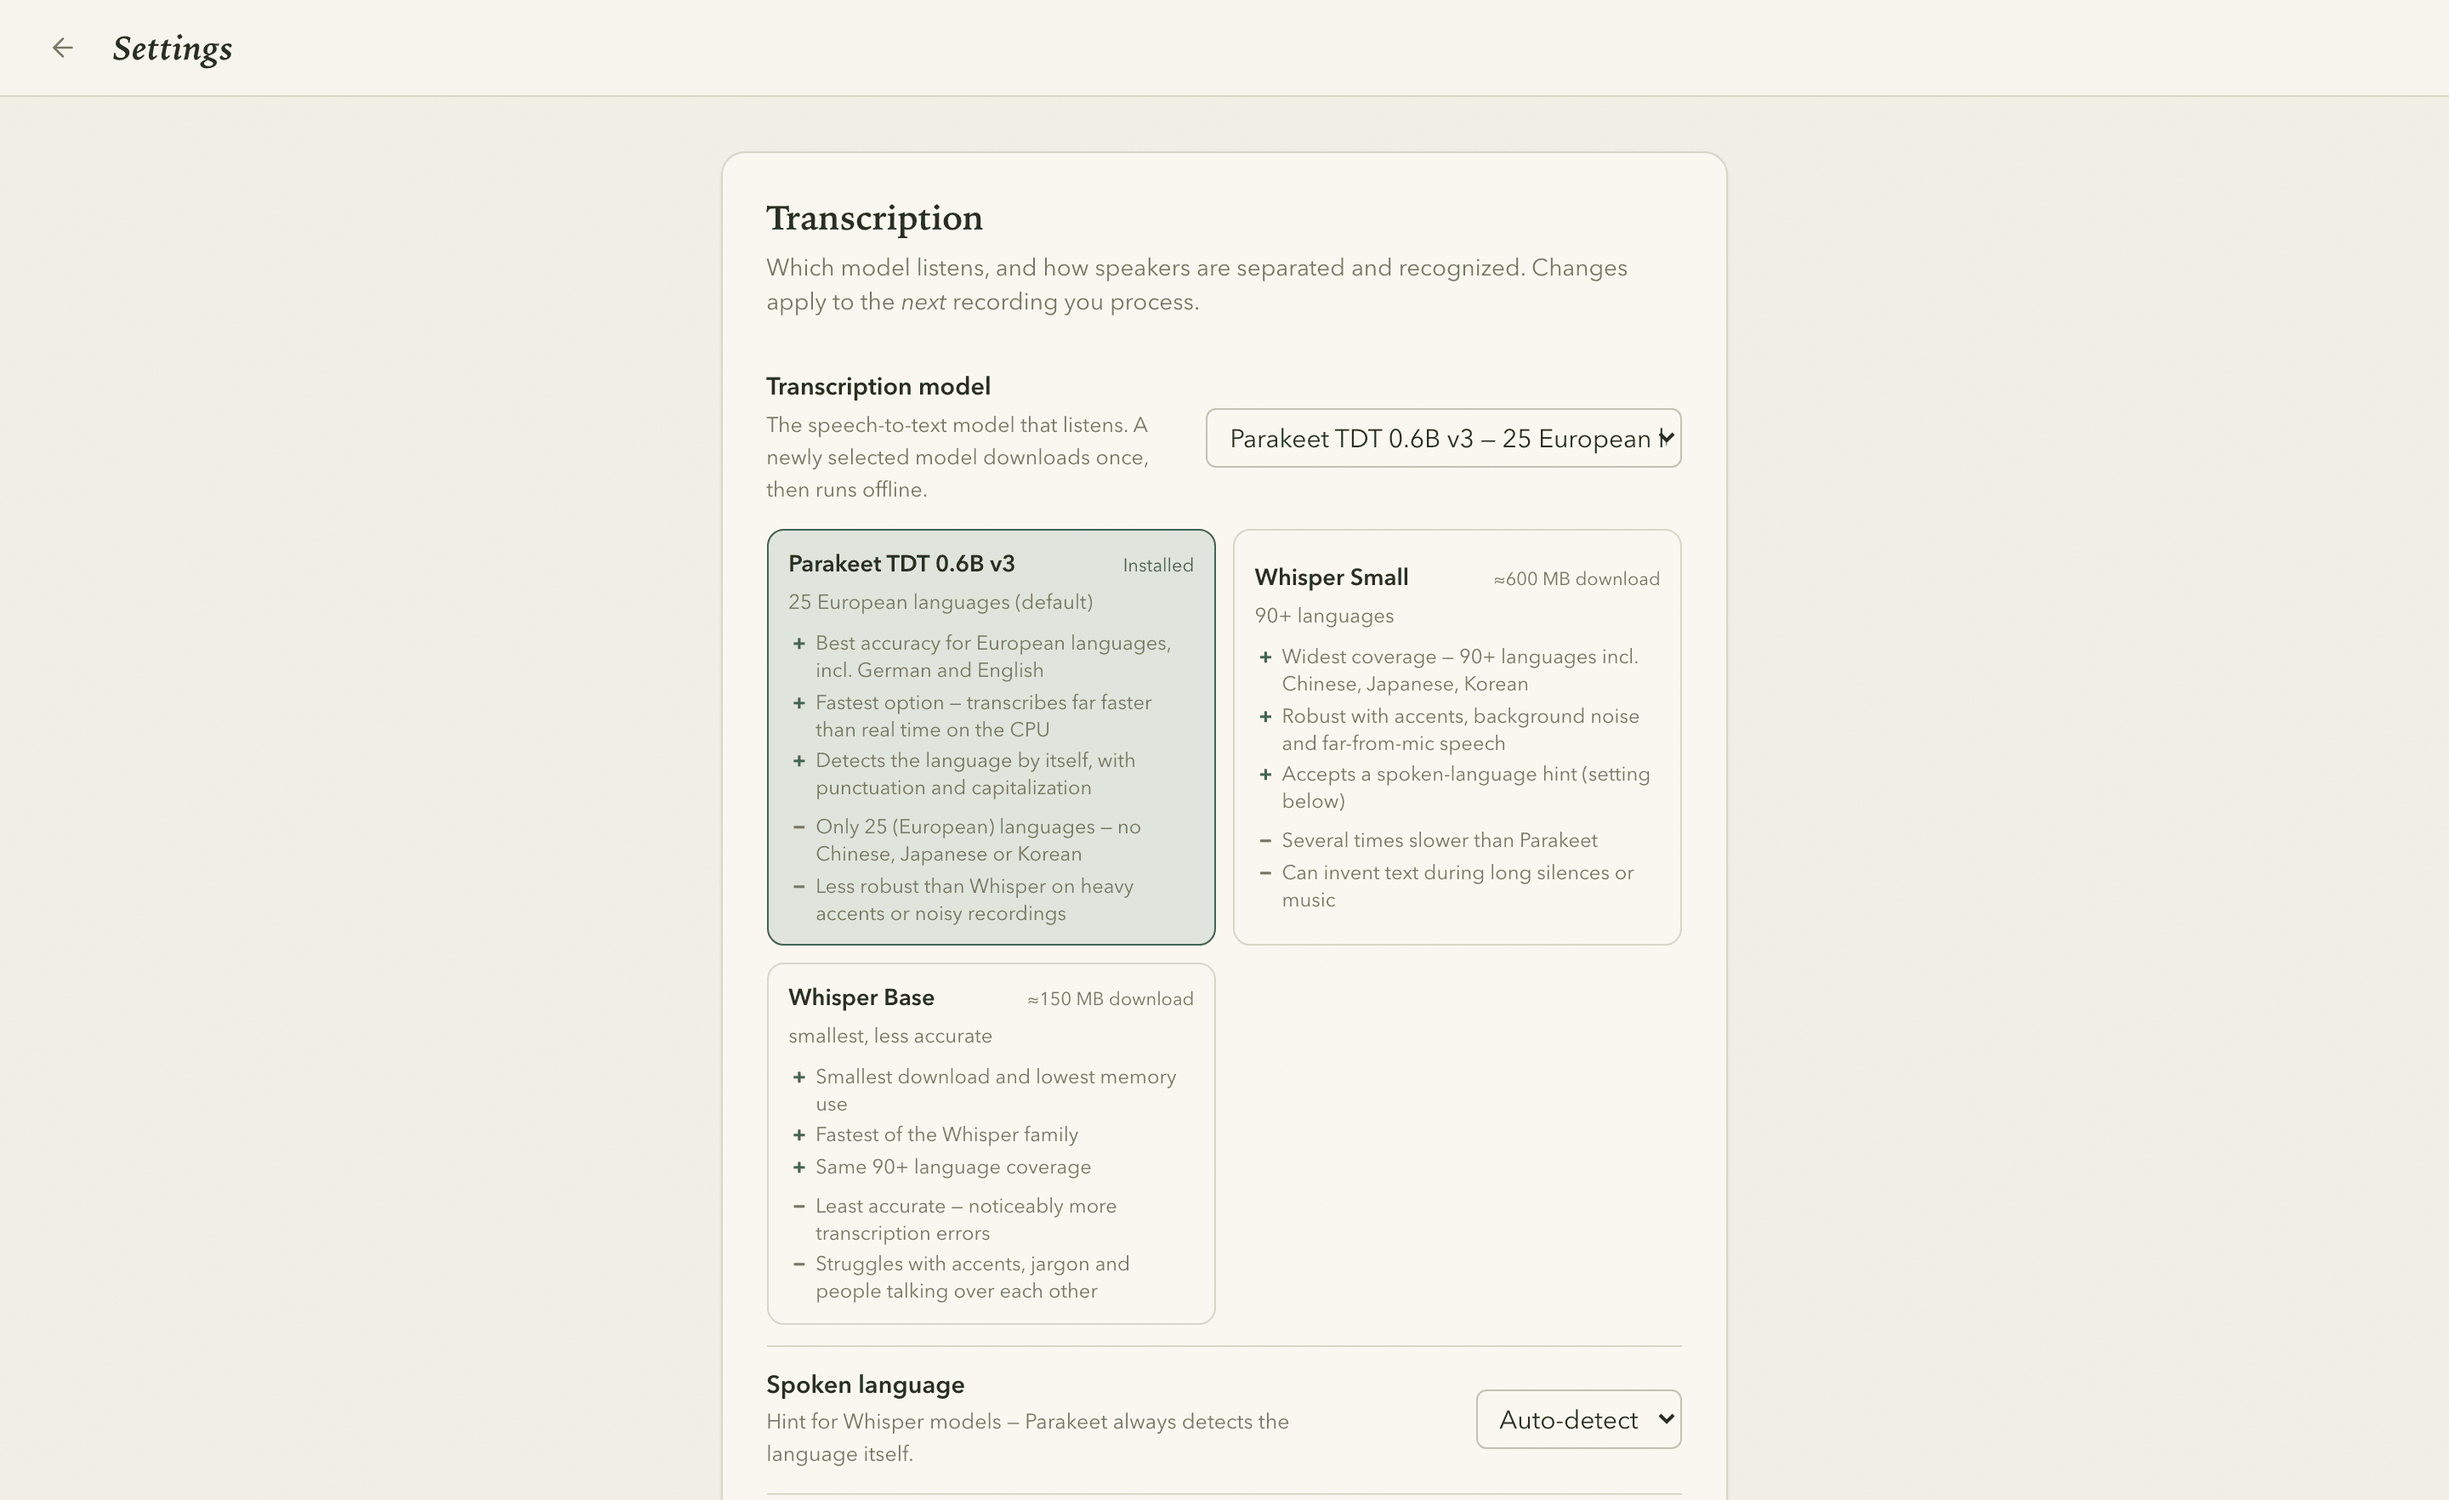
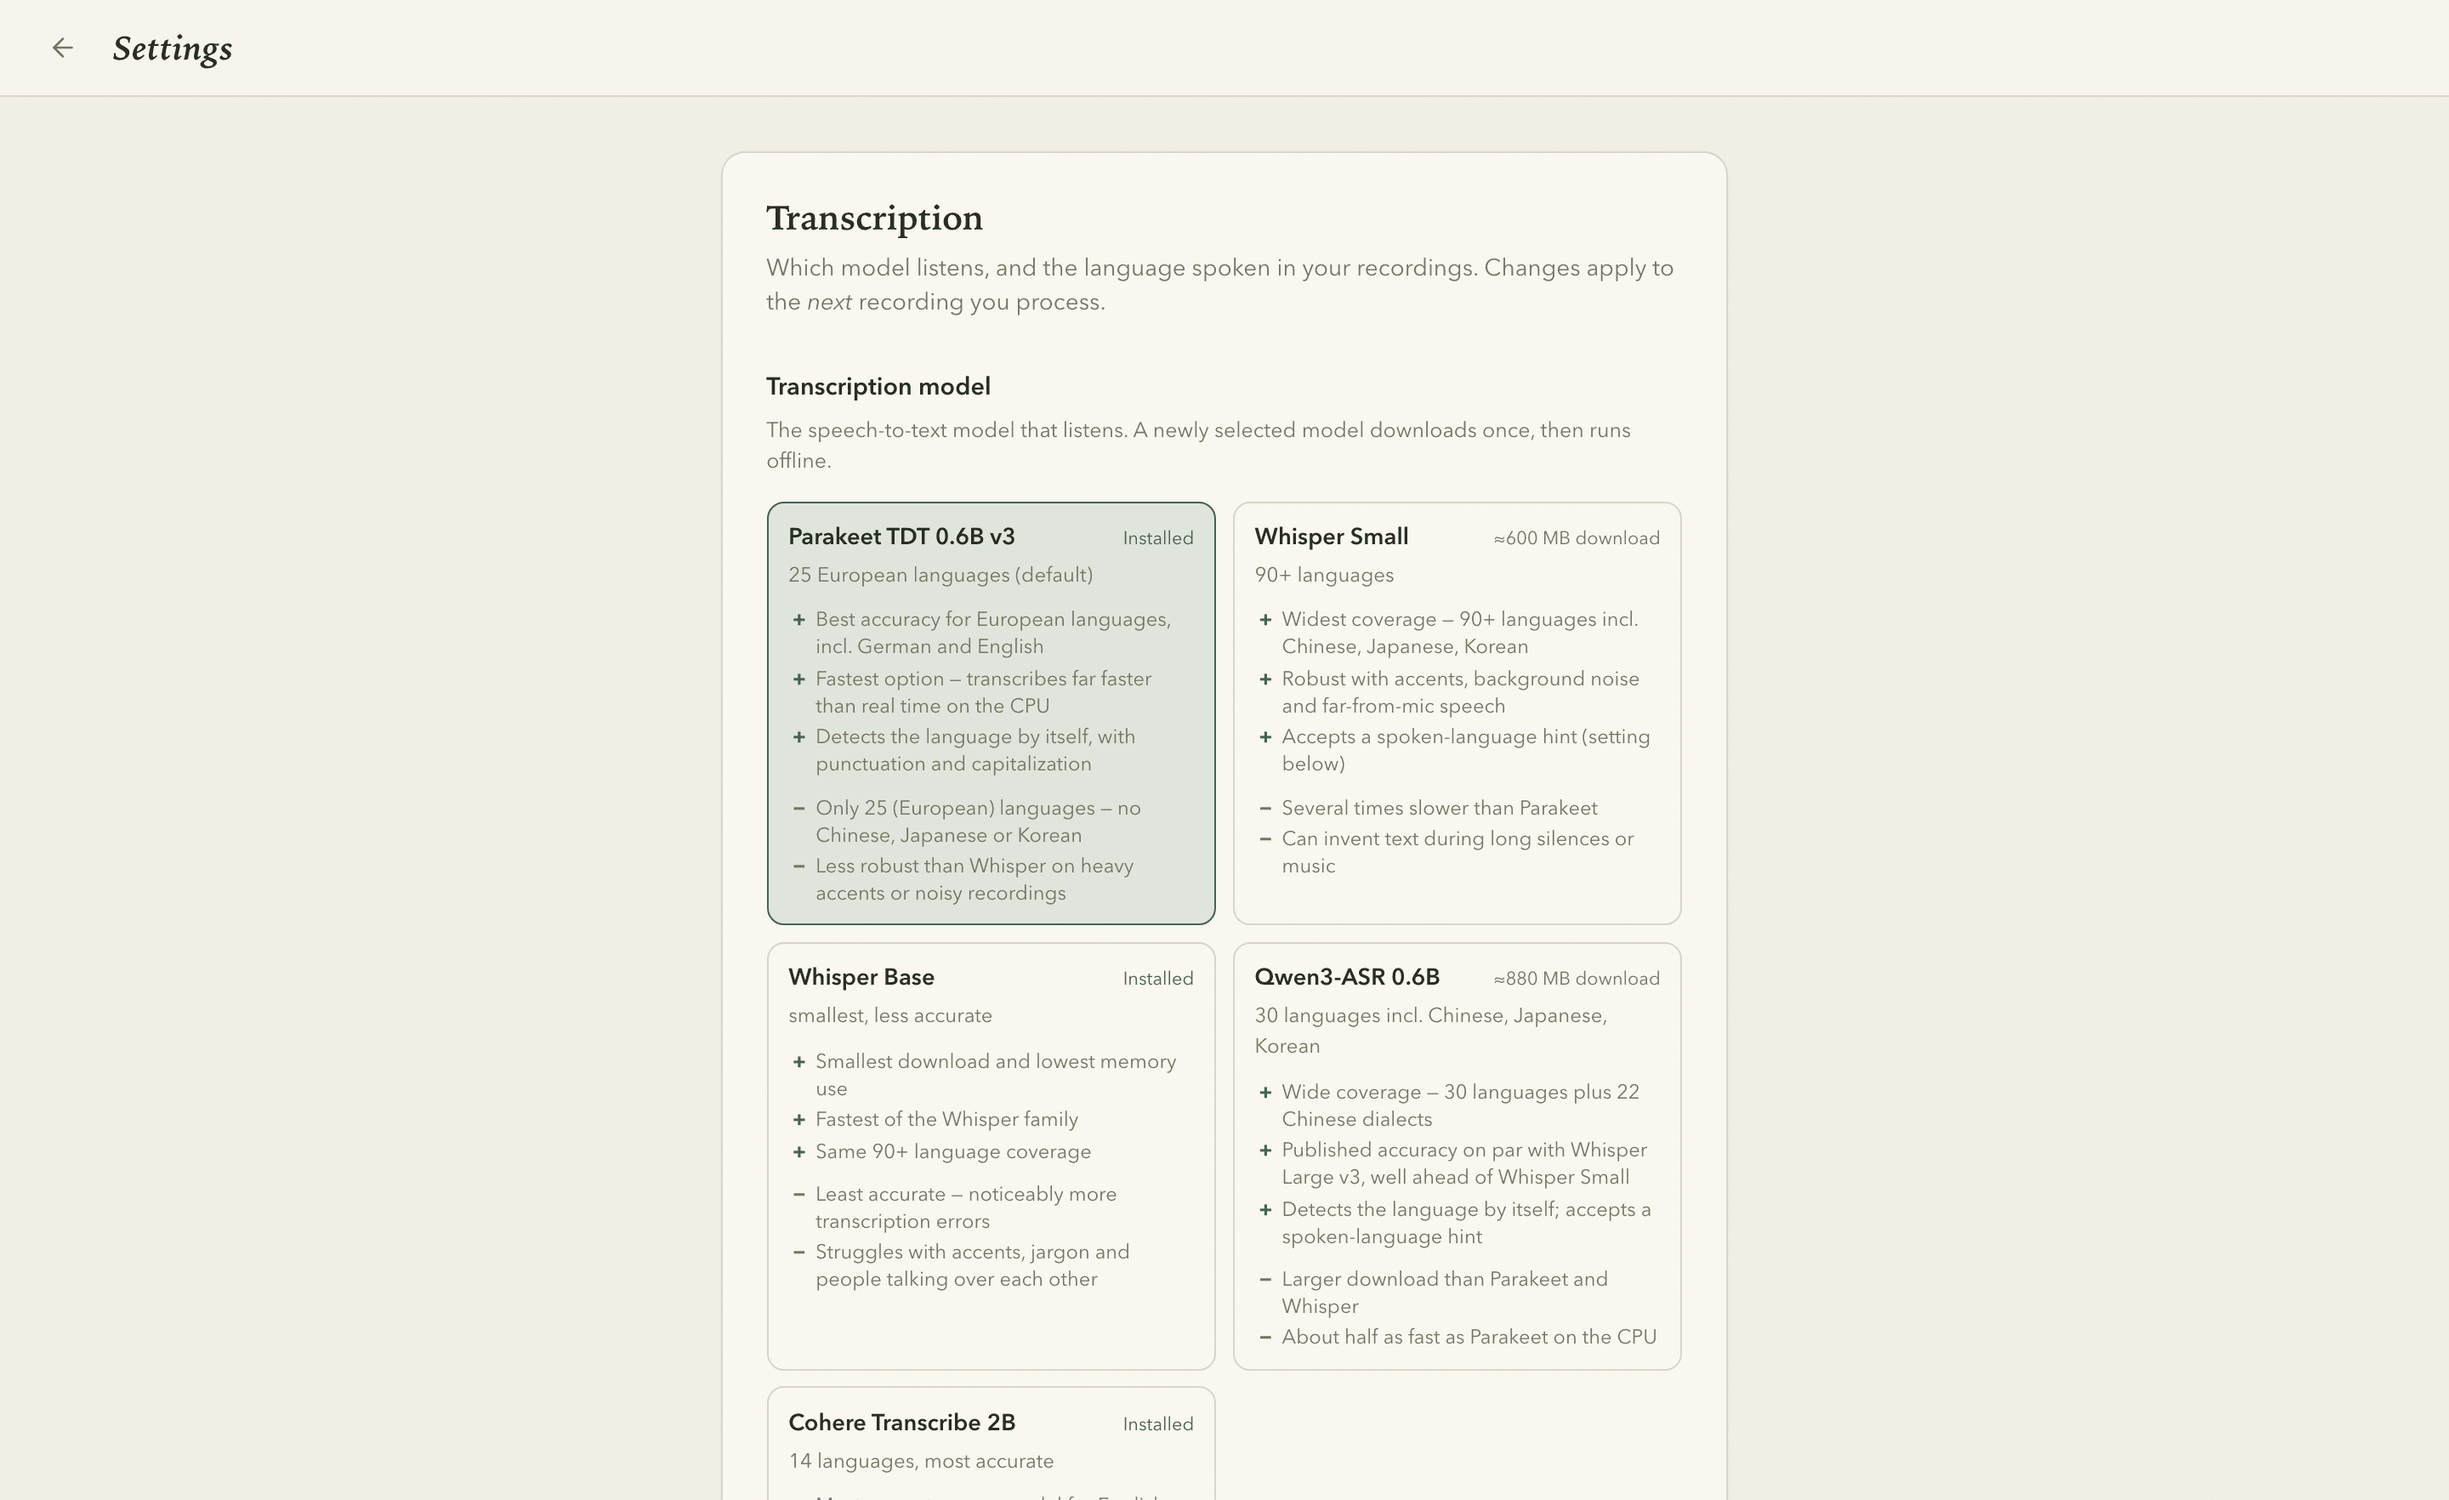
docs: README and Settings screenshots for the refreshed settings
- README: Cohere Transcribe in the models table, model removal and the
  Cohere language requirement, Nemotron's third of the threads, the
  "Summary compute" setting (measured GPU vs CPU), the benchmark's
  meeting estimate, MIN_SPEAKER_SECONDS is classic-diarizer only.
- docs/screenshots/settings.png regenerated from the smoke build, plus a
  dark variant shown via <picture> like the meeting screenshot.
- Smoke fixtures use the real catalog text (catalog.json, dumped from
  models_status) and a `#docs` mode for clean screenshots.
- Model cards stack their content from the top (buttons centred it).

diff --git a/frontend/smoke/fixtures.ts b/frontend/smoke/fixtures.ts
@@ -1,12 +1,14 @@
 // Backend payloads for the smoke stub, shaped like api::config_payload and
-// models::models_status (abridged catalog text).
+// models::models_status. catalog.json is the real catalog text (label, size,
+// pros, cons, languages) dumped from models_status; the download states
+// below are made up to exercise every card state.
+import catalog from "./catalog.json";
 const LANGUAGES = [
   ["en", "English"], ["de", "German"], ["fr", "French"], ["es", "Spanish"],
   ["it", "Italian"], ["pt", "Portuguese"], ["nl", "Dutch"], ["pl", "Polish"],
   ["ru", "Russian"], ["uk", "Ukrainian"], ["tr", "Turkish"], ["zh", "Chinese"],
   ["ja", "Japanese"], ["ko", "Korean"], ["ar", "Arabic"], ["el", "Greek"], ["vi", "Vietnamese"],
 ];
-const COHERE = ["ar", "de", "el", "en", "es", "fr", "it", "ja", "ko", "nl", "pl", "pt", "vi", "zh"];
 
 const DEFAULTS = {
   ASR_MODEL: "parakeet-tdt-0.6b-v3",
@@ -47,14 +49,9 @@ export function config() {
   };
 }
 
-const option = (id, label, size, extra = {}) => ({
+const option = (id, extra = {}) => ({
   id,
-  label,
-  size,
-  languages: [],
-  needs_language: false,
-  pros: ["Fast", "Accurate"],
-  cons: ["Large"],
+  ...catalog[id],
   ready: false,
   downloading: false,
   downloaded: 0,
@@ -65,32 +62,34 @@ const option = (id, label, size, extra = {}) => ({
   ...extra,
 });
 
+const docs = () => location.hash === "#docs";
+
 export function models() {
   return {
     asr: {
       active: "parakeet-tdt-0.6b-v3",
       options: [
-        option("parakeet-tdt-0.6b-v3", "Parakeet TDT 0.6B v3 — 25 European languages (default)", "≈700 MB", { ready: true, disk_bytes: 6.7e8 }),
-        option("whisper-small", "Whisper Small — 90+ languages", "≈600 MB download", { downloading: true, downloaded: 3e8, total: 6e8 }),
-        option("whisper-base", "Whisper Base — smallest, less accurate", "≈150 MB download", { ready: true, disk_bytes: 1.6e8, removable: true }),
-        option("qwen3-asr-0.6b", "Qwen3-ASR 0.6B — 30 languages incl. Chinese, Japanese, Korean", "≈880 MB download", { error: "connection reset" }),
-        option("cohere-transcribe", "Cohere Transcribe 2B — 14 languages, most accurate", "≈1.7 GB download", { ready: true, disk_bytes: 2.9e9, removable: true, languages: COHERE, needs_language: true }),
+        option("parakeet-tdt-0.6b-v3", { ready: true, disk_bytes: 6.7e8 }),
+        option("whisper-small", docs() ? {} : { downloading: true, downloaded: 3e8, total: 6e8 }),
+        option("whisper-base", { ready: true, disk_bytes: 1.6e8, removable: true }),
+        option("qwen3-asr-0.6b", docs() ? {} : { error: "connection reset" }),
+        option("cohere-transcribe", { ready: true, disk_bytes: 2.9e9, removable: true }),
       ],
     },
     diar: {
       active: "nemotron-3-diarization",
       options: [
-        option("nemotron-3-diarization", "Nemotron 3 Diarization — up to 8 speakers (default)", "≈120 MB", { ready: true, disk_bytes: 1.2e8 }),
-        option("pyannote-3.0", "Classic (pyannote 3.0) — any number of speakers", "≈6 MB download", { ready: true, disk_bytes: 6e6, removable: true }),
+        option("nemotron-3-diarization", { ready: true, disk_bytes: 1.2e8 }),
+        option("pyannote-3.0", { ready: true, disk_bytes: 6e6, removable: true }),
       ],
     },
     summary: {
       active: "qwen3.5-4b",
       options: [
-        option("qwen3.5-0.8b", "Qwen 3.5 0.8B — tiny, fastest", "≈0.5 GB download"),
-        option("qwen3.5-2b", "Qwen 3.5 2B — fast, light", "≈1.3 GB download"),
-        option("qwen3.5-4b", "Qwen 3.5 4B — balanced (default)", "≈2.7 GB", { ready: true, disk_bytes: 2.7e9 }),
-        option("qwen3.5-9b", "Qwen 3.5 9B — strongest, slowest", "≈5.7 GB download", { ready: true, disk_bytes: 5.7e9, removable: true }),
+        option("qwen3.5-0.8b"),
+        option("qwen3.5-2b"),
+        option("qwen3.5-4b", { ready: true, disk_bytes: 2.7e9 }),
+        option("qwen3.5-9b", { ready: true, disk_bytes: 5.7e9, removable: true }),
       ],
     },
   };

diff --git a/frontend/smoke/check.ts b/frontend/smoke/check.ts
@@ -55,6 +55,13 @@ export async function runSmokeChecks(): Promise<void> {
     problems.push("openPrepare threw: " + e.message);
   }
 
+  // `#docs`: the clean Settings page for the README screenshot.
+  if (location.hash === "#docs") {
+    closePrepare();
+    await openSettings();
+    finish();
+    return;
+  }
   try {
     closePrepare();
     await checkSettings(problems, hidden);

diff --git a/frontend/style.css b/frontend/style.css
@@ -960,6 +960,9 @@ mark.find-hit.current {
   margin-top: 0.6rem;
 }
 .model-card {
+  display: flex;
+  flex-direction: column;
+  justify-content: flex-start;
   font: inherit;
   text-align: left;
   color: inherit;

diff --git a/README.md b/README.md
@@ -37,7 +37,7 @@ fully offline:
 
 | Component | Model | Source |
 |---|---|---|
-| Transcription | NVIDIA parakeet-tdt-0.6b-v3 (25 European languages; Qwen3-ASR 0.6B and Whisper Small/Base selectable) | sherpa-onnx GitHub releases |
+| Transcription | NVIDIA parakeet-tdt-0.6b-v3 (25 European languages; Cohere Transcribe 2B, Qwen3-ASR 0.6B and Whisper Small/Base selectable) | sherpa-onnx GitHub releases |
 | Voice activity | Silero VAD | sherpa-onnx GitHub releases |
 | Diarization | NVIDIA Nemotron 3 Diarization, int8 ONNX (up to 8 speakers; classic pyannote-seg 3.0 selectable) | Hugging Face (ungated) / sherpa-onnx GitHub releases |
 | Speaker ID | NeMo TitaNet speaker embedding (ONNX) | sherpa-onnx GitHub releases |
@@ -45,9 +45,14 @@ fully offline:
 | ffmpeg | static binary | bundled with the app |
 
 Models are switched in Settings — each option lists its trade-offs and
-downloads on demand:
+downloads on demand; models you no longer use can be removed there to free
+disk space. Cohere Transcribe is the most accurate option but can't detect
+the spoken language, so it needs one set (in Settings or per recording):
 
-![The Settings screen comparing transcription models side by side, with pros and cons for each](docs/screenshots/settings.png)
+<picture>
+  <source media="(prefers-color-scheme: dark)" srcset="docs/screenshots/settings-dark.png">
+  <img alt="The Settings screen comparing transcription models side by side, with pros and cons for each" src="docs/screenshots/settings.png">
+</picture>
 
 ## Install (end users)
 
@@ -101,9 +106,9 @@ default settings** (7 CPU threads: ~75 % of cores). End to end the recording
 processes in **~2.6 minutes — about 11× faster than realtime**:
 
 - **Transcription and diarization run concurrently.** They read the same
-  decoded audio with disjoint models, so each gets half the thread budget
-  and they run side by side — measurably faster than either full-budget
-  ordering.
+  decoded audio with disjoint models and run side by side: Nemotron gets
+  about a third of the thread budget (the classic diarizer half), and its
+  threads join transcription as soon as it finishes.
 - **Nemotron 3 Diarization** separates the speakers 2.5× faster than the
   classic pyannote pipeline (43 s vs 106 s for this recording on 7 threads),
   so diarization now finishes well inside the transcription time and frees
@@ -130,12 +135,14 @@ inside sherpa-onnx ships without CoreML, and CoreML/ANE measured slower than
 the CPU for these models anyway (onnxruntime can only place a fraction of the
 ops on the Neural Engine, and the CPU↔ANE hand-offs cost more than the
 acceleration saves). The summarizer LLM runs on the **GPU** where llama.cpp
-supports it (the *Hardware acceleration* setting toggles this): Metal
-generates ~25 % faster than CPU and loads the model far faster.
+supports it (the *Summary compute* setting, macOS): on an M3 Pro, Metal
+writes the notes for a 28-minute meeting in ~26 s versus ~105 s on the CPU.
 
 Hardware differs, so the app includes a built-in benchmark (gauge icon, top
-right) that measures ASR, diarization, speaker ID, and the summarizer on
-your machine across the available backends.
+right). It runs your selected models over five minutes of audio the way a
+meeting runs them and estimates how long an hour of meeting takes on your
+machine; where the summary can run on the GPU or the CPU it times both and
+can switch to the faster one.
 
 ## Privacy
 
@@ -232,7 +239,7 @@ Environment variables (all optional):
 | `LAZYMEET_SPEAKER_THRESHOLD` | `0.6` | Voice-match strictness (cosine) |
 | `LAZYMEET_DIAR_MODEL` | `nemotron-3-diarization` | Diarizer: `nemotron-3-diarization` (up to 8 speakers) or `pyannote-3.0` (classic) |
 | `LAZYMEET_MERGE_THRESHOLD` | `0.6` | Voiceprint similarity at which over-split diarized labels merge |
-| `LAZYMEET_MIN_SPEAKER_SECONDS` | `15` | Speakers with less speech fold into the closest main voice |
+| `LAZYMEET_MIN_SPEAKER_SECONDS` | `15` | Classic diarizer only: speakers with less speech fold into the closest main voice |
 | `LAZYMEET_NUM_THREADS` | ~75% of cores | ONNX/LLM CPU threads |
 | `LAZYMEET_ASR_URL` / `LAZYMEET_LLM_URL` / … | release URLs | Override model downloads |
 | `LAZYMEET_KEEP_AUDIO` | `1` | `1` = keep only the audio track for playback (video files are deleted after processing); `0` = delete recordings entirely (disables segment playback) |
